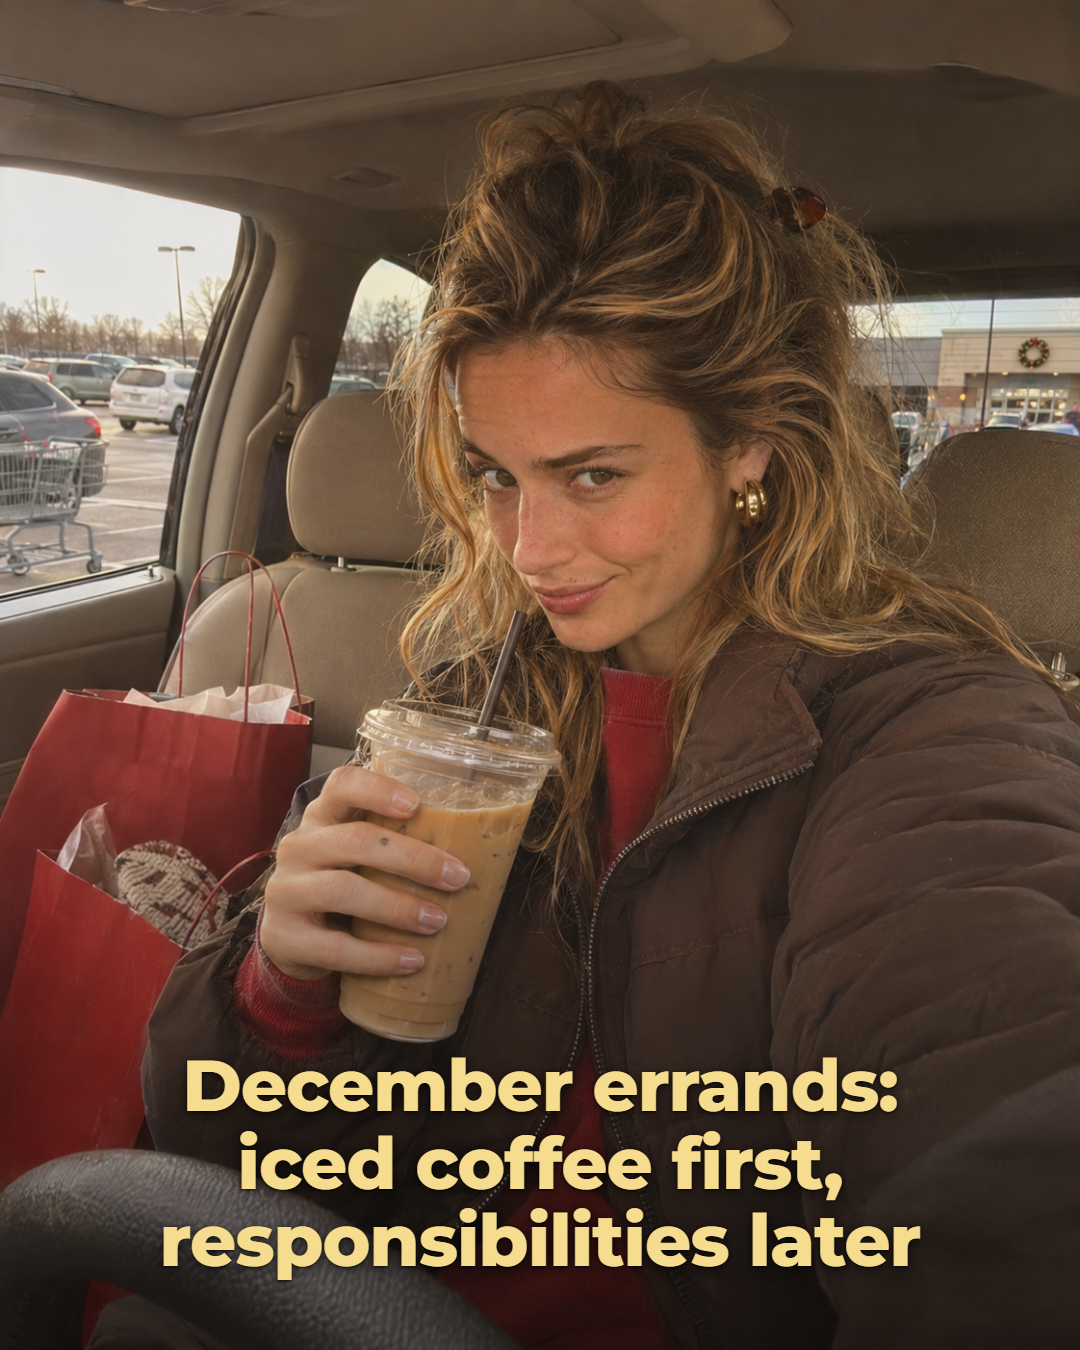
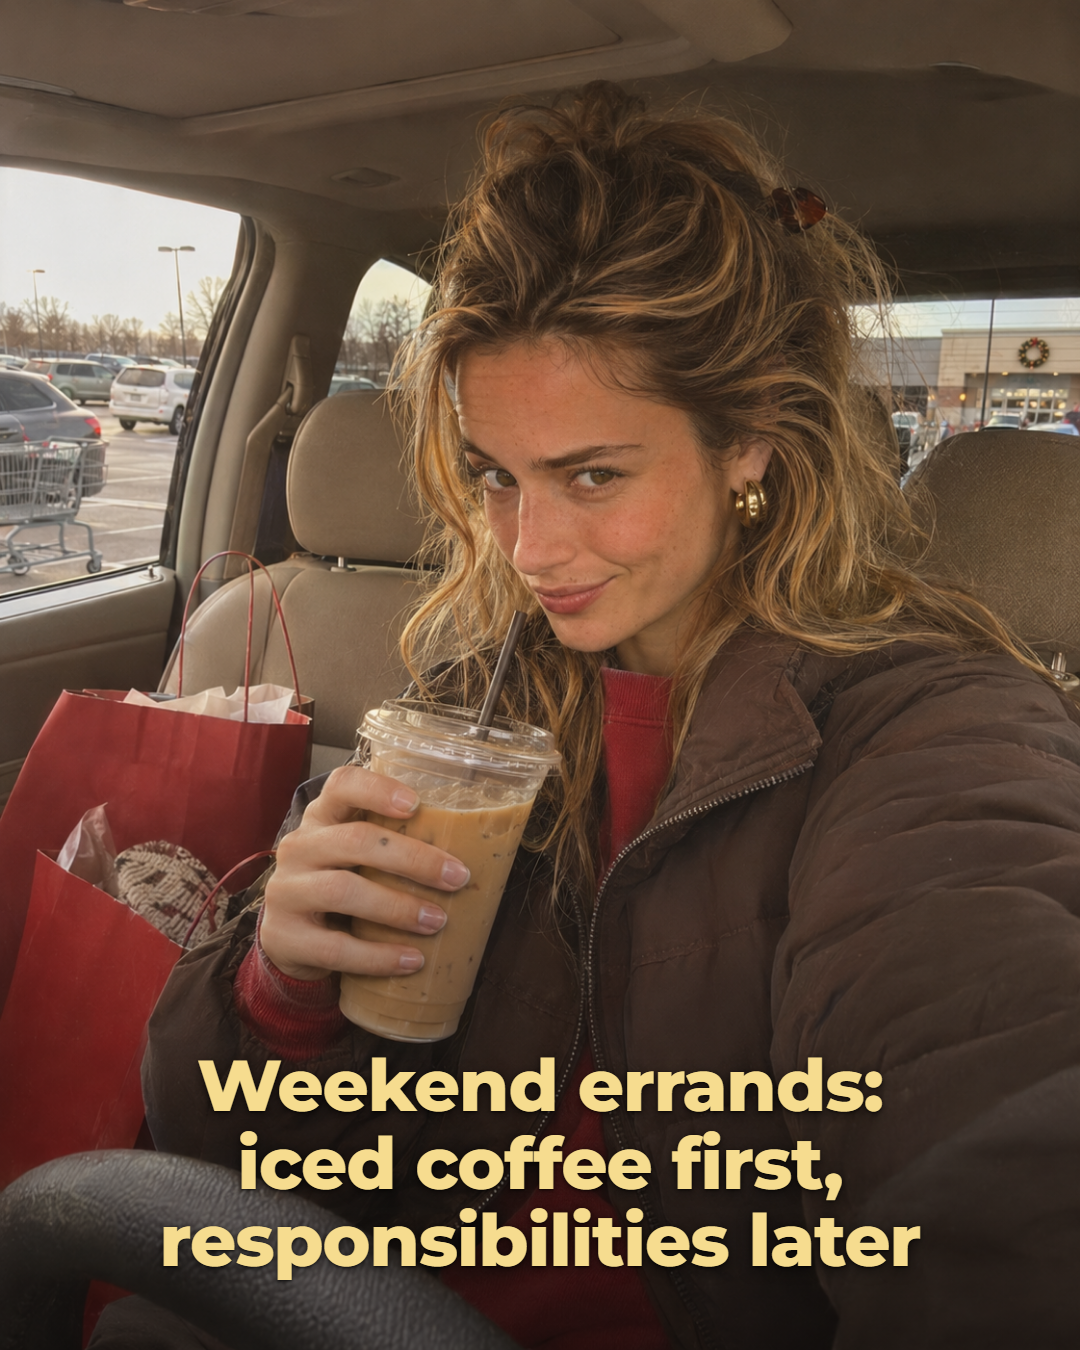
b08 text for January

Changed region(s): [[0.1528, 0.7778, 0.825, 0.84]]

diff --git a/specs/make_avatar_memes2.py b/specs/make_avatar_memes2.py
@@ -12,7 +12,7 @@ M = {  # file: (text, 'top'|'bottom')
  "b05": ("Getting ready for the<br>holiday party like<br>it\u2019s the Met Gala", "bottom"),
  "b06": ("POV: buying cookies<br>for the neighbors<br>(and a tin for the car)", "bottom"),
  "b07": ("POV: you came in<br>for one sweater", "bottom"),
- "b08": ("December errands:<br>iced coffee first,<br>responsibilities later", "bottom"),
+ "b08": ("Weekend errands:<br>iced coffee first,<br>responsibilities later", "bottom"),
  "b09": ("Treat yourself after<br>you treat everyone else", "bottom"),
  "b10": ("Retail therapy:<br>still cheaper than<br>actual therapy", "bottom"),
  "b11": ("Vintage ornament<br>season is the<br>best season", "bottom"),
